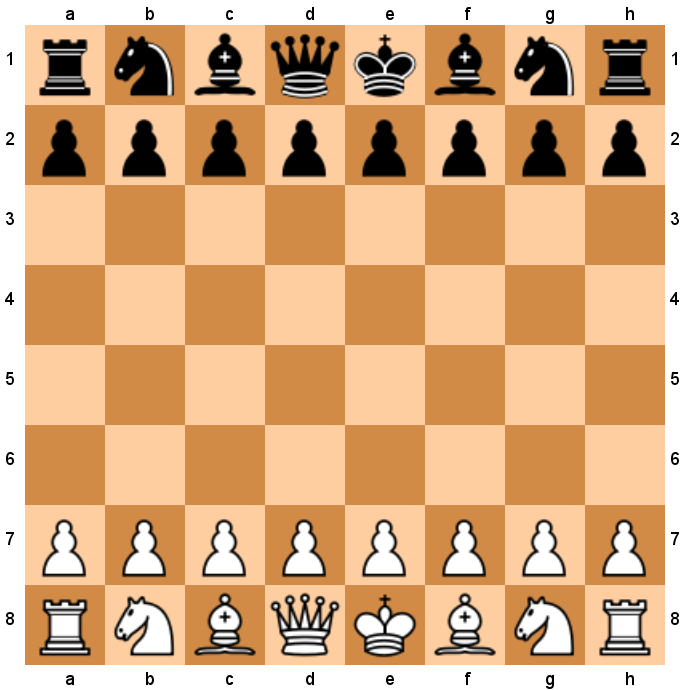
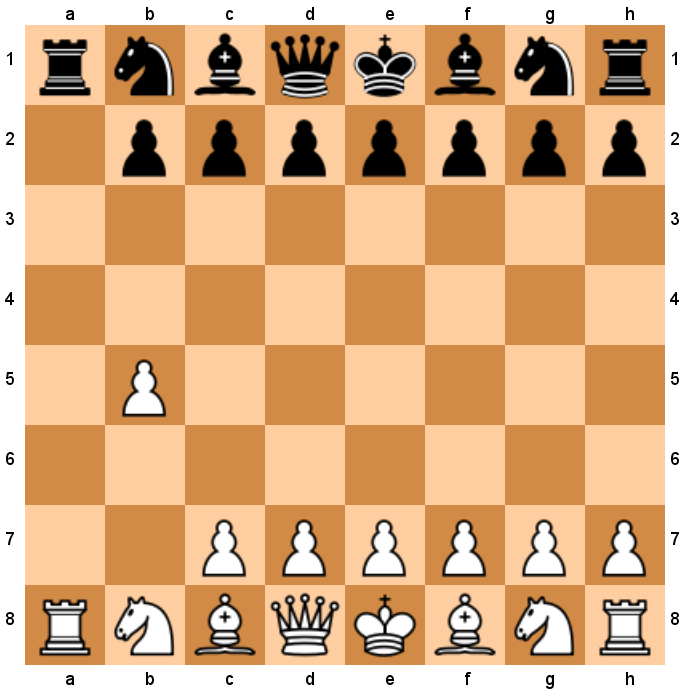
Movimiento del peon

diff --git a/src/logic/game/chess.js b/src/logic/game/chess.js
@@ -39,11 +39,201 @@ class Chess {
     this.start();
   }
 
+
+  getPiece(cordLetter,cordNumber){
+    const calc = cordLetter+8*cordNumber;
+    const text = this.state[calc];
+    const team = (text.length) ? text[0] : "";
+    const type = (text.length) ? text[1] : "";
+    const o = {
+      text,
+      team,
+      type,
+      calc
+    };
+    console.log(o);
+    return o;
+  }
+
+  kingInCheck(team){
+    return false;
+  }
+
+  generateCoordinates(direction,from,to){
+    /*
+    from:[cordLetter,cordNumber]
+    to:[cordLetter,cordNumber]
+    */
+    const coordinates = [];
+    let i = 0;
+    switch(direction){
+      case "up":
+        for(i=from[1]+1;i>=to[1];i--){
+          coordinates.push(String.fromCharCode(from[0])+""+i);
+        }
+        break;
+      case "down":
+        for(i=from[1]+1;i<=to[1];i++){
+          coordinates.push(String.fromCharCode(from[0])+""+i);
+        }
+        break;
+      case "left":
+        for(i=from[0]+1;i>=to[0];i--){
+          coordinates.push(String.fromCharCode(i)+""+from[1]);
+        }
+        break;
+      case "right":
+        for(i=from[0]+1;i<=to[0];i++){
+          coordinates.push(String.fromCharCode(i)+""+from[1]);
+        }
+        break;
+      case "diagonalLU":
+        break;
+      case "diagonalLD":
+        break;
+      case "diagonalRU":
+        break;
+      case "diagonalRD":
+        break;
+    }
+  }
+
+  getCord(text){
+    const cords = (text.toLowerCase()).split("");
+    const cordLetter = (isNaN(cords[0])) ? parseInt(cords[0].charCodeAt(0))-97 : parseInt(cords[1].charCodeAt(0))-97;
+    const cordNumber = (!isNaN(cords[0])) ? parseInt(cords[0])-1 : parseInt(cords[1])-1;
+    return [cordLetter,cordNumber];
+  }
+
+  tryMakeMove(piece, from, to){
+    /*
+    from:[cordLetter,cordNumber]
+    to:[cordLetter,cordNumber]
+    */
+    const pieceData = piece.split("");
+    const type = pieceData[1];
+    const team = pieceData[0];
+    const fieldTo = this.getPiece(to[0],to[1]);
+    let move = false;
+    let direction = "";
+    let sampleState = [...this.state];
+    let path=[];
+
+    if(fieldTo.team != this.players[this.currentTurn].color){
+      switch(type){
+        case "k":
+          move = Math.abs(from[0]-to[0])<=1 && Math.abs(from[1]-to[1])<=1;
+          break;
+        case "q":
+          break;
+        case "n":
+          break;
+        case "b":
+          break;
+        case "r":
+          if(Math.abs(from[0]-to[0])==0 && Math.abs(from[1]-to[1])!=0){
+            if(from[1]>to[1]){
+              direction="up";
+            } else {
+              direction="down";
+            }
+          } else if(Math.abs(from[0]-to[0])!=0 && Math.abs(from[1]-to[1])==0){
+            if(from[0]>to[0]){
+              direction="right";
+            } else {
+              direction="left";
+            }
+          }
+          if(direction!=""){
+            path = generateCoordinates(direction,from,to);
+            var pathOk = true;
+            for(var i in path){
+              var _cords = this.getCord(path[i]);
+              var [_cordLetter,_cordNumber] = _cords;
+              var _currentPiece = this.getPiece(_cordLetter,_cordNumber);
+              if( (i==path.length-1 && _currentPiece.team != this.players[this.currentTurn].color) ||
+                  _currentPiece == ""
+                  ){
+
+              } else {
+                pathOk=false;
+                break;
+              }
+            }
+            move=pathOk;
+          }
+          break;
+        case "p":
+          if(Math.abs(from[0]-to[0])==0 && fieldTo.team == ""){
+            var row = (team == "w") ? 6 : 1;
+            var moveOk = (team == "b") ? from[1]<to[1] : to[1]<from[1];
+            if(moveOk){
+              if(from[1] == row && Math.abs(from[1]-to[1])<=2){
+                move = true;
+              } else if(Math.abs(from[1]-to[1])<=1){
+                move = true;
+              }
+            }
+          } else if(Math.abs(from[0]-to[0])==1 && Math.abs(from[1]-to[1])==1 && fieldTo.team != ""){
+            move = true;
+          }
+          break;
+      }
+    }
+    if(move){
+      let resultToCord = to[0]+8*to[1];
+      let resultFromCord = from[0]+8*from[1];
+      sampleState[resultToCord]=piece;
+      sampleState[resultFromCord]="";
+      if(this.kingInCheck(this.players[this.currentTurn].color,sampleState)){
+        return false;
+      } else {
+        this.state[resultToCord]=piece;
+        this.state[resultFromCord]="";
+      }
+    }
+    return move;
+  }
+
+  async makeMove(player,coordinate,new_coordinate){
+    if(player == this.currentTurn){
+      const currentPlayer = this.players[player];
+      if(coordinate.length==2 && new_coordinate.length==2){
+        const cords = this.getCord(coordinate);
+        const [cordLetter,cordNumber] = cords;
+        const piece = this.getPiece(cordLetter,cordNumber);
+        if(piece.text!=""){
+          if(piece.team == currentPlayer.color){
+            const new_cords = new_coordinate.toLowerCase().split("");
+            const new_cordLetter = (isNaN(new_cords[0])) ? new_cords[0].charCodeAt(0)-97 : new_cords[1].charCodeAt(0)-97;
+            const new_cordNumber = (!isNaN(new_cords[0])) ? parseInt(new_cords[0])-1 : parseInt(new_cords[1])-1;
+            if(this.tryMakeMove(piece.text,[cordLetter,cordNumber],[new_cordLetter,new_cordNumber])){
+              this.currentTurn++;
+              this.currentTurn%=this.players.length;
+              await this.draw();
+              console.log("Next turn");
+            } else {
+              console.log("You can't make this move");
+            }
+          } else {
+            console.log("This piece doens't belong to you");
+          }
+        } else {
+          console.log("Empty field");
+        }
+      } else {
+        console.log("Coordinates are wrong");
+      }
+    } else {
+      console.log("Not your turn");
+    }
+  }
+
   async start(){
     let firstPlayer = Math.floor(Math.random() * this.players.length);
-    this.players[firstPlayer].assignColor("white");
+    this.players[firstPlayer].assignColor("w");
     this.currentTurn=firstPlayer;
-    this.players[(firstPlayer+1)%this.players.length].assignColor("black");
+    this.players[(firstPlayer+1)%this.players.length].assignColor("b");
 
     this.state=[
       "br","bn","bb","bq","bk","bb","bn","br",
@@ -136,6 +326,18 @@ class Chess {
   }
 
   async draw(){
+    let text = "";
+    for(let s in this.state){
+      if(s%8==0){
+        text+="\n";
+      }
+      if(this.state[s]==""){
+        text+="   ";
+      } else {
+        text+=this.state[s]+" ";
+      }
+    }
+    console.log(text);
     this.drawBackGround();
     this.drawCoordinates();
     await this.drawGame(this.state);
@@ -145,5 +347,11 @@ class Chess {
 
 const game = new Chess();
 
+var stdin = process.openStdin();
+
+stdin.addListener("data", function(d) {
+  const message = d.toString().trim().split(" ");
+  game.makeMove(game.currentTurn,message[0]+"",message[1]+"");
+});
 
 module.exports = Chess;
